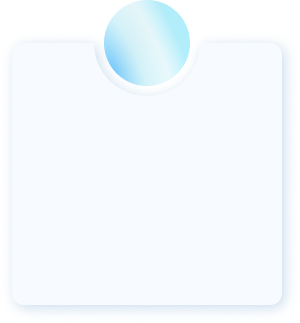
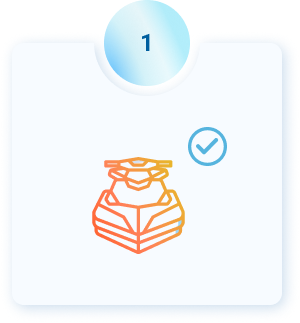
add

Changed region(s): [[0.3, 0.4644, 0.63, 0.805], [0.63, 0.3715, 0.78, 0.5263], [0.48, 0.0929, 0.51, 0.1548]]

diff --git a/prokat/index.html b/prokat/index.html
@@ -242,10 +242,9 @@
             <div class="row pt-5">
               <div class="col-lg-3 col-sm-6">
                 <div class="stage_block_wrapper">
-                  <div class="stage_block nums num1">
-                    <div class="icon_block">
-                      <img class="img-fluid check_img" src="img/check.png" alt="">
-                      <img class="img-fluid icon_stage" src="img/icon_1.png" alt="">
+                  <div class="stage_block ">
+                    <div class="icon_block text-center">
+                      <img class="img-fluid" src="img/stage_card.png" alt="">
                     </div>
                   </div>
                   <p class="blue_text mb-0">Выберите</p>
@@ -256,7 +255,7 @@
                 <div class="stage_block_wrapper">
                   <div class="stage_block nums num2">
                     <div class="icon_block">
-                      <img class="img-fluid icon_stage" src="img/icon_2.png" alt="">
+                      <img class="img-fluid icon_stage" src="img/stage_card_2.png" alt="">
                     </div>
                   </div>
                   <p class="blue_text mb-0">Оставьте заявку</p>
@@ -267,7 +266,7 @@
                 <div class="stage_block_wrapper">
                   <div class="stage_block nums num3">
                     <div class="icon_block">
-                      <img class="img-fluid icon_stage" src="img/icon_3.png" alt="">
+                      <img class="img-fluid icon_stage" src="img/stage_card_3.png" alt="">
                     </div>
                   </div>
                   <p class="blue_text mb-0">Специалист</p>
@@ -278,11 +277,19 @@
                 <div class="stage_block_wrapper">
                   <div class="stage_block nums num4">
                     <div class="icon_block">
-                      <img class="img-fluid icon_stage" src="img/icon_4.png" alt="">
+                      <img class="img-fluid icon_stage" src="img/stage_card_4.png" alt="">
                     </div>
                   </div>
                   <p class="blue_text mb-0">Получите</p>
                   <p class="decription_stage">выбранное оборудование<br>в указанном месте</p>
+                </div>
+              </div>
+              <div class="col-xl-11 pt-3 pt-lg-5">
+                <div class="background_gradient">
+                  <div class="delivery_order">
+                    <p class="upper_text mb-xl-0">мы доставим оборудование в любое место отдыха для вас</p>
+                    <a href="#" data-taggle="modal" data-target="#" class="orange_btn text-center">Оставить заявку</a>
+                  </div>
                 </div>
               </div>
             </div>

diff --git a/prokat/css/style.css b/prokat/css/style.css
@@ -64,19 +64,14 @@ body{background-color:#F8FCFF;}
 .more_btn, .less_btn{display:none;}
 .rental{position:relative;background-image:url(../img/bg_water.png);background-size:100%;background-position:0 150px;background-repeat:no-repeat;}
 .rental_delivery{padding:70px 0 0;}
-.stage_block{background-image:url(../img/stage_card.png);background-size:110% auto;background-position:center top;min-height:305px;height:100%;position:relative;background-repeat:no-repeat;display:flex;align-items:center;justify-content:center;}
-.stage_block_wrapper{padding:40px 0 20px;position:relative;display:flex;flex-direction:column;justify-content:space-between;}
-.stage_block.nums:before{position:absolute;font-size:24px;width:20px;height:24px;font-family:roboto;font-weight:bold;color:#005F9F;left:0;right:0;top:21px;margin:auto;}
-.stage_block.num1:before{content:'1';}
-.stage_block.num2:before{content:'2';}
-.stage_block.num3:before{content:'3';}
-.stage_block.num4:before{content:'4';}
-.icon_stage{padding-top:50px;}
-.icon_block{position:relative;}
-.check_img{position:absolute;top:20px;right:-20px;}
 .blue_text{font-size:18px;line-height:24px;text-align:center;color:#005F9F;font-family:noto_tc;font-weight:bold;}
 .decription_stage{font-size:18px;line-height:20px;text-align:center;color:#242A3A;font-family:noto_tc;font-weight:bold;}
 .decription_stage span{color:#005F9F;}
+.icon_block{text-align:center;}
+.delivery_order{display:flex;justify-content:space-between;align-items:center;}
+.upper_text{font-size:20px;line-height:32px;letter-spacing:0.135em;text-transform:uppercase;font-family:roboto_cond;font-weight:bold;color:#005F9F;}
+.background_gradient{border-radius:10px;background: linear-gradient(59.6deg, #FF4F17 -13.43%, #FF8159 40.79%, rgba(233,180,44,1)86.67%);}
+.delivery_order{background-color:#F8FCFF;border-radius:10px;}
 
 
 @media(max-width:1400px){
@@ -97,6 +92,8 @@ body{background-color:#F8FCFF;}
   .mobile_width{width:100%;max-width:800px;margin:0 auto;}
   .header_menu{padding-top:70px;}
   .btn_menu.active{z-index:999;}
+  .delivery_order{flex-direction:column;text-align:center;}
+  .upper_text{margin-bottom:20px;}
 }
 @media(max-width:991px){
   .sub_title_gradient{font-size:16px;text-align:center;line-height:16px;margin-bottom:0;}
@@ -122,6 +119,9 @@ body{background-color:#F8FCFF;}
   .content_slider{bottom:30px;}
   .white_text_form{font-size:14px;}
   .catamaran_position_right{display:none;}
+  .background_gradient{padding:2px;}
+  .delivery_order{padding:13px;}
+  .upper_text{font-size:27px;}
 }
 @media(max-width:575px){
   .img_slider{width:auto;max-height:363px;object-fit:none;}
